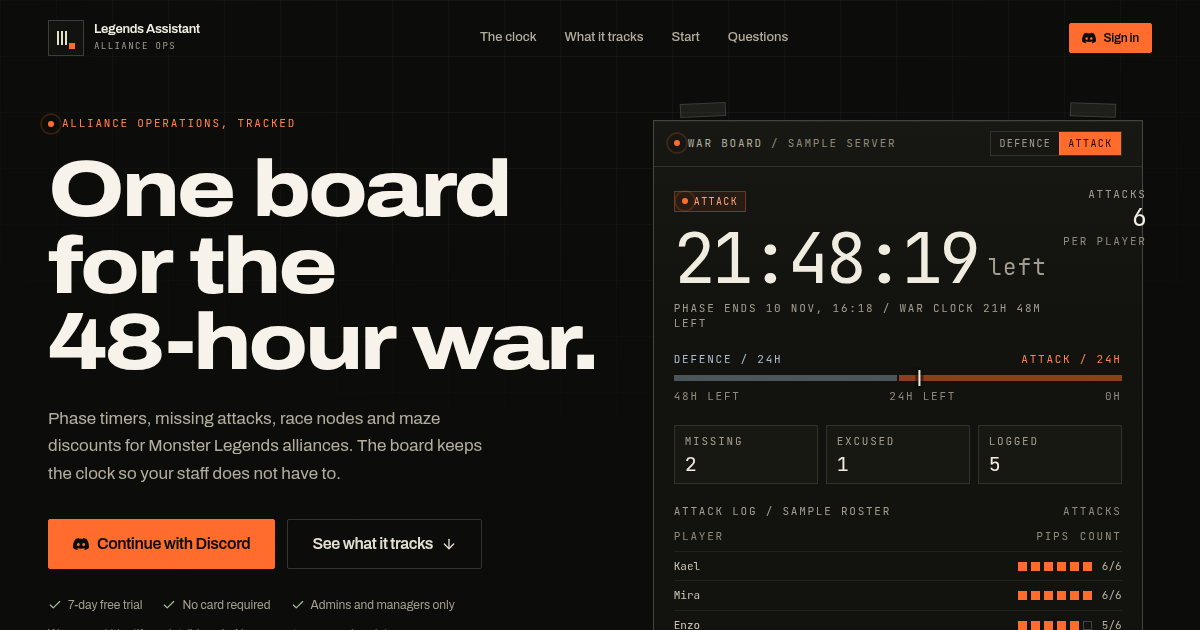
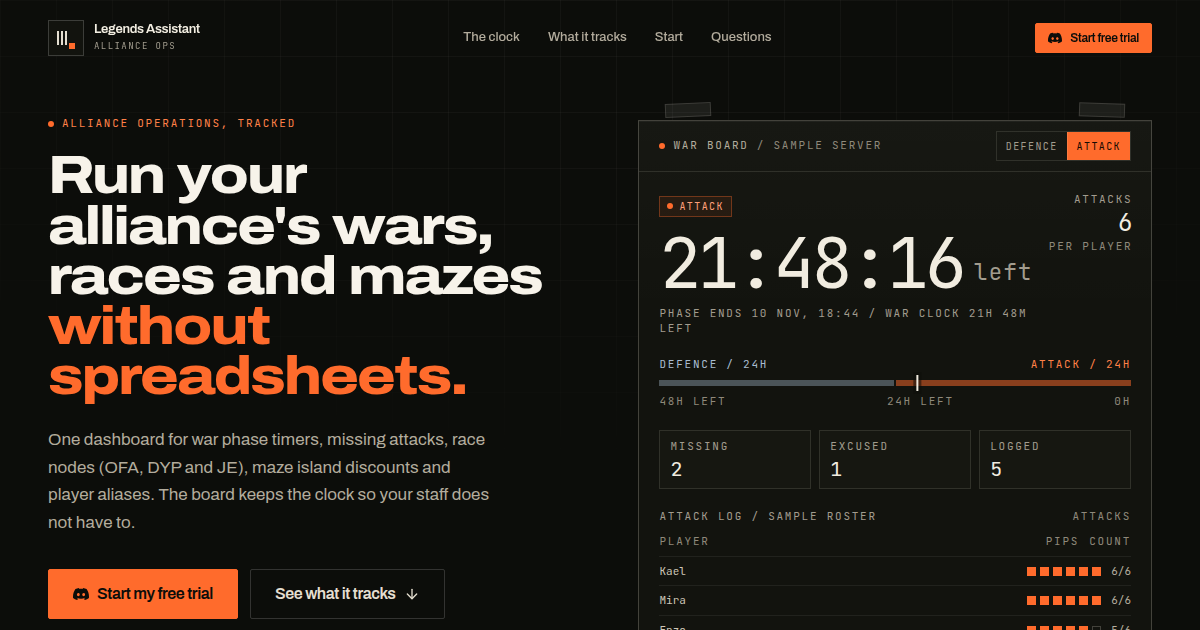
Add conversion psychology and widen the landing promise
The bot tracks wars, races, mazes and aliases, not only war, so the hero
returns to the alliance-wide caption that reads like a reason to sign up:
"Run your alliance's wars, races and mazes without spreadsheets."

Psychology pass from the UX/behavioural guide:
- Ownership microcopy: primary CTA is now "Start my free trial"; header
  and finale follow the same wording.
- Quantified effort: hero states the setup cost (about a minute, Discord
  sign-in, pick server) instead of a vague claim.
- Transparency timeline on Billing: Today (days left) -> Day 7 trial ends
  and board pauses, data kept -> pick a plan any time.
- Loss aversion: red notice when the trial has two days or less left;
  trial bar relabelled to days left.
- Price anchoring: yearly plan shows the struck 12x monthly baseline,
  per-month equivalent and a computed Save % badge (was a stale 30%).
- Risk reversal beside the plan actions: cancel any time, access to the
  end of the paid period, non-refundable per policy.
- Goal gradient: Overview shows a setup card that credits the bot already
  being in the server, so setup never reads 0% (50% with one channel set).
- Fixed inline legal links on Billing (underline + 24px target).
- Regenerated OG image; SEO title/description no longer war-only.

diff --git a/dashboard/app/dashboard/[guildId]/billing/page.tsx b/dashboard/app/dashboard/[guildId]/billing/page.tsx
@@ -6,7 +6,8 @@ import { ShieldCheck, ArrowRight, Sparkles, Check, Mail, Loader2, ShieldAlert, X
 import { useGuild } from '@/components/guild-shell'
 import { Card, CardBody, CardHeader, Badge, ProgressBar, Alert, PageHeader } from '@/components/ui'
 import { formatDate, toDate } from '@/lib/format'
-import { PRICING_PLANS, PLAN_FEATURES, formatPrice, detectCurrency, Currency } from '@/lib/pricing'
+import { PRICING_PLANS, PLAN_FEATURES, formatPrice, detectCurrency, perMonthPrice, yearlySavings, Currency } from '@/lib/pricing'
+import { TRIAL_DAYS } from '@/lib/constants'
 import { load as loadCashfree } from '@cashfreepayments/cashfree-js'
 import { initializePaddle, Paddle } from '@paddle/paddle-js'
 
@@ -73,6 +74,10 @@ export default function BillingPage() {
     daysLeft = Math.max(0, Math.ceil((trialEnd.getTime() - Date.now()) / 86_400_000))
     if (daysLeft <= 0) trialExpired = true
   }
+
+  // Price-anchor baseline: what the same year would cost on the monthly plan.
+  const proMonthlyPrice =
+    PRICING_PLANS.find((plan) => plan.id === 'pro_monthly')?.price[currency] ?? 0
 
   const supportEmail = 'warbot.support@gmail.com'
   const supportHref = `mailto:${supportEmail}?subject=Billing%20Enquiry%20for%20Server%20${guildId}`
@@ -160,13 +165,26 @@ export default function BillingPage() {
                     <h4 className="text-lg font-bold text-slate-50">{plan.name}</h4>
                     <p className="text-xs text-slate-400 mt-1">{plan.description}</p>
                   </div>
-                  {plan.badge && <Badge tone="purple">{plan.badge}</Badge>}
+                  {plan.badge && (
+                    <Badge tone="purple" className="whitespace-nowrap">
+                      {plan.id === 'elite_yearly' ? `Save ${yearlySavings(currency)}%` : plan.badge}
+                    </Badge>
+                  )}
                 </div>
                 <div className="mt-auto pt-6">
                   <p className="text-3xl font-extrabold text-slate-50">
                     {formatPrice(plan.price[currency], currency)}
                     <span className="text-sm font-normal text-slate-400"> / {plan.cadence}</span>
                   </p>
+                  {plan.cadence === 'year' ? (
+                    <p className="mt-1 text-xs text-slate-500">
+                      <s className="text-slate-600">{formatPrice(proMonthlyPrice * 12, currency)}</s>{' '}
+                      billed monthly · save {yearlySavings(currency)}% ·{' '}
+                      {formatPrice(perMonthPrice(plan, currency), currency)}/month
+                    </p>
+                  ) : (
+                    <p className="mt-1 text-xs text-slate-500">Billed monthly · cancel any time</p>
+                  )}
                   <button 
                     onClick={() => handlePayment(plan)}
                     disabled={loadingPlan === plan.id}
@@ -179,6 +197,11 @@ export default function BillingPage() {
             </Card>
           ))}
         </div>
+        <p className="mt-4 text-xs leading-relaxed text-slate-500">
+          Secure checkout via Paddle or Cashfree. Cancel any time; access continues to the end of
+          the paid period. Payments are non-refundable, as described in the{' '}
+          <a href="/legal#refund" className="inline-block py-1.5 text-accent-400 underline decoration-accent-500/40 underline-offset-4 hover:text-accent-300">refund policy</a>.
+        </p>
       </div>
     )
   }
@@ -222,11 +245,22 @@ export default function BillingPage() {
           </div>
           {!isPremium && (
             <div className="w-full sm:w-64">
-               <ProgressBar value={daysLeft} max={7} tone={daysLeft <= 2 ? 'red' : daysLeft <= 4 ? 'amber' : 'green'} label="Trial Progress" />
+               <ProgressBar value={daysLeft} max={TRIAL_DAYS} tone={daysLeft <= 2 ? 'red' : daysLeft <= 4 ? 'amber' : 'green'} label="Trial days left" />
             </div>
           )}
         </CardBody>
       </Card>
+
+      {isTrial && !trialExpired && daysLeft <= 2 ? (
+        <Alert
+          tone="red"
+          className="mb-6"
+          title={`Trial ends in ${daysLeft} ${daysLeft === 1 ? 'day' : 'days'}`}
+        >
+          When the trial ends the board pauses and channel pings stop. Your war, race and maze
+          history stays — pick a plan below to keep tracking without a gap.
+        </Alert>
+      ) : null}
 
       <div className="grid gap-8 lg:grid-cols-[1fr_300px]">
         <div className="space-y-6">
@@ -244,13 +278,26 @@ export default function BillingPage() {
                       <h4 className="text-lg font-bold text-slate-50">{plan.name}</h4>
                       <p className="text-xs text-slate-400 mt-1">{plan.description}</p>
                     </div>
-                    {plan.badge && <Badge tone="purple">{plan.badge}</Badge>}
+                    {plan.badge && (
+                    <Badge tone="purple" className="whitespace-nowrap">
+                      {plan.id === 'elite_yearly' ? `Save ${yearlySavings(currency)}%` : plan.badge}
+                    </Badge>
+                  )}
                   </div>
                   <div className="mt-auto pt-6">
                     <p className="text-3xl font-extrabold text-slate-50">
                       {formatPrice(plan.price[currency], currency)}
                       <span className="text-sm font-normal text-slate-400"> / {plan.cadence}</span>
                     </p>
+                    {plan.cadence === 'year' ? (
+                      <p className="mt-1 text-xs text-slate-500">
+                        <s className="text-slate-600">{formatPrice(proMonthlyPrice * 12, currency)}</s>{' '}
+                        billed monthly · save {yearlySavings(currency)}% ·{' '}
+                        {formatPrice(perMonthPrice(plan, currency), currency)}/month
+                      </p>
+                    ) : (
+                      <p className="mt-1 text-xs text-slate-500">Billed monthly · cancel any time</p>
+                    )}
                     <button 
                       onClick={() => handlePayment(plan)}
                       disabled={loadingPlan === plan.id}
@@ -267,9 +314,43 @@ export default function BillingPage() {
               </Card>
             ))}
           </div>
+          <p className="mt-4 text-xs leading-relaxed text-slate-500">
+            Secure checkout via Paddle or Cashfree. Cancel any time; access continues to the end
+            of the paid period. Payments are non-refundable, as described in the{' '}
+            <a href="/legal#refund" className="inline-block py-1.5 text-accent-400 underline decoration-accent-500/40 underline-offset-4 hover:text-accent-300">refund policy</a>.
+          </p>
         </div>
 
         <div className="space-y-4">
+          {!isPremium ? (
+            <Card>
+              <CardHeader title="What happens next" icon={<Clock className="w-5 h-5" />} />
+              <CardBody>
+                <ol className="space-y-4 text-sm leading-relaxed text-slate-300">
+                  <li>
+                    <span className="mono-label block text-accent-400">Today</span>
+                    <span className="mt-0.5 block">
+                      {daysLeft} of {TRIAL_DAYS} trial days left. All six tools unlocked, no card
+                      on file.
+                    </span>
+                  </li>
+                  <li>
+                    <span className="mono-label block text-steel-400">Day {TRIAL_DAYS}</span>
+                    <span className="mt-0.5 block">
+                      The trial ends and the board pauses. Nothing is deleted: war, race and maze
+                      history stays.
+                    </span>
+                  </li>
+                  <li>
+                    <span className="mono-label block text-slate-500">Any time</span>
+                    <span className="mt-0.5 block">
+                      Pick a plan and the board keeps running without a gap.
+                    </span>
+                  </li>
+                </ol>
+              </CardBody>
+            </Card>
+          ) : null}
           <Card>
             <CardHeader title="What's included" icon={<ShieldCheck className="w-5 h-5" />} />
             <CardBody>
@@ -284,7 +365,7 @@ export default function BillingPage() {
             </CardBody>
           </Card>
           <p className="text-xs text-slate-500 px-2 text-center">
-            By selecting a plan, you agree to our <a href="/legal" target="_blank" className="text-accent-400 hover:underline">Terms of Service</a>. All payments are strictly non-refundable.
+            By selecting a plan, you agree to our <a href="/legal" target="_blank" className="inline-block py-1.5 text-accent-400 underline decoration-accent-500/40 underline-offset-4 hover:text-accent-300">Terms of Service</a>. All payments are strictly non-refundable.
           </p>
         </div>
       </div>

diff --git a/dashboard/app/dashboard/[guildId]/page.tsx b/dashboard/app/dashboard/[guildId]/page.tsx
@@ -29,6 +29,7 @@ import {
   ProgressBar,
   Spinner,
   Stat,
+  buttonClass,
 } from '@/components/ui'
 import { getGuildSummary, type GuildSummary } from '@/lib/data'
 import { createClient } from '@/lib/supabase/client'
@@ -134,6 +135,17 @@ export default function OverviewPage() {
     [moments],
   )
 
+  // Goal-gradient head start: the bot is already in this server (otherwise the dashboard could
+  // not load it), so setup is never a 0% state. Only the channel picks are left.
+  const setupSteps = [
+    { label: 'War channel', done: Boolean(guild.war_channel_id), href: `/dashboard/${guildId}/war` },
+    { label: 'Race channel', done: Boolean(guild.race_channel_id), href: `/dashboard/${guildId}/race` },
+    { label: 'Maze channel', done: Boolean(guild.maze_channel_id), href: `/dashboard/${guildId}/maze` },
+  ]
+  const setupDone = setupSteps.filter((step) => step.done).length
+  const setupPct = Math.round(((setupDone + 1) / (setupSteps.length + 1)) * 100)
+  const nextSetupSteps = setupSteps.filter((step) => !step.done).slice(0, 2)
+
   return (
     <div>
       <PageHeader
@@ -147,6 +159,32 @@ export default function OverviewPage() {
           </Button>
         }
       />
+
+      {setupDone < setupSteps.length ? (
+        <Card className="mb-6">
+          <CardBody className="flex flex-col gap-4 sm:flex-row sm:items-center sm:justify-between">
+            <div>
+              <p className="mono-label text-accent-400">
+                Setup / {setupDone} of {setupSteps.length} channels
+              </p>
+              <p className="mt-1.5 text-sm font-semibold text-slate-100">
+                {setupPct}% set up. The bot is already in the server.
+              </p>
+              <p className="mt-1 text-xs leading-relaxed text-slate-400">
+                Point each tool at a channel so it tracks and pings automatically.
+              </p>
+            </div>
+            <div className="flex flex-wrap items-center gap-2">
+              {nextSetupSteps.map((step) => (
+                <Link key={step.href} href={step.href} className={buttonClass('secondary', 'sm')}>
+                  {step.label}
+                  <ArrowRight className="h-3.5 w-3.5" />
+                </Link>
+              ))}
+            </div>
+          </CardBody>
+        </Card>
+      ) : null}
 
       {error ? (
         <Alert tone="red" className="mb-6" title="Could not refresh the snapshot">

diff --git a/dashboard/components/landing.tsx b/dashboard/components/landing.tsx
@@ -135,7 +135,7 @@ export default function Landing() {
             className={buttonClass('primary', 'sm')}
           >
             <DiscordIcon className="h-3.5 w-3.5" />
-            {loading ? 'Redirecting…' : 'Sign in'}
+            {loading ? 'Redirecting…' : 'Start free trial'}
           </button>
         </div>
         <button
@@ -204,11 +204,9 @@ export default function Landing() {
                 <span className="live-dot" aria-hidden />
                 {hero.stamp}
               </p>
-              <h1 className="display mt-5 text-[clamp(2.7rem,6.7vw,5.5rem)] text-slate-50">
-                {hero.title.split('48-hour')[0]}
-                <span className="whitespace-nowrap">
-                  48-hour{hero.title.split('48-hour')[1]}
-                </span>
+              <h1 className="display mt-5 text-[clamp(2.2rem,4.4vw,3.6rem)] text-slate-50">
+                {hero.title.replace(hero.titleAccent, '')}
+                <span className="block text-accent-500">{hero.titleAccent}</span>
               </h1>
               <p className="mt-6 max-w-[46ch] text-[17px] leading-relaxed text-slate-400">
                 {hero.lede}
@@ -228,7 +226,8 @@ export default function Landing() {
                   {error}
                 </Alert>
               ) : null}
-              <ul className="mt-7 flex flex-wrap gap-x-5 gap-y-2 text-xs text-slate-500">
+              <p className="mt-4 text-[13px] leading-relaxed text-slate-500">{hero.effortNote}</p>
+              <ul className="mt-5 flex flex-wrap gap-x-5 gap-y-2 text-xs text-slate-500">
                 {hero.highlights.map((item) => (
                   <li key={item} className="inline-flex items-center gap-1.5">
                     <Check className="h-3.5 w-3.5 text-sage-400" aria-hidden />
@@ -486,7 +485,7 @@ export default function Landing() {
                 Assistant
               </p>
               <p className="mt-4 max-w-[44ch] text-sm leading-relaxed text-slate-500">
-                A war board for Monster Legends alliance staff. Built to replace the pinned
+                The alliance board for Monster Legends staff. Built to replace the pinned
                 spreadsheet, not the conversation.
               </p>
             </div>

diff --git a/dashboard/lib/marketing.ts b/dashboard/lib/marketing.ts
@@ -11,17 +11,21 @@ export const site = {
   name: 'Legends Assistant',
   url: 'https://drlohithealth.com',
   description:
-    'Track the 48-hour alliance war, missing attacks, race nodes and maze discounts for your Monster Legends alliance, from one board.',
+    'Track alliance wars, race nodes (OFA, DYP and JE), maze island discounts and player aliases for your Monster Legends alliance, from one dashboard.',
   supportEmail: 'warbot.support@gmail.com',
 } as const
 
 export const hero = {
   stamp: 'Alliance operations, tracked',
-  title: 'One board for the 48-hour war.',
+  title: "Run your alliance's wars, races and mazes without spreadsheets.",
+  // Rendered in the accent colour inside the headline.
+  titleAccent: 'without spreadsheets.',
   lede:
-    'Phase timers, missing attacks, race nodes and maze discounts for Monster Legends alliances. The board keeps the clock so your staff does not have to.',
-  primaryCta: 'Continue with Discord',
+    'One dashboard for war phase timers, missing attacks, race nodes (OFA, DYP and JE), maze island discounts and player aliases. The board keeps the clock so your staff does not have to.',
+  primaryCta: 'Start my free trial',
   secondaryCta: 'See what it tracks',
+  // Quantified effort: remove the "how long will this take?" objection before it forms.
+  effortNote: 'Live in about a minute: sign in with Discord, pick your server, the board fills.',
   highlights: ['7-day free trial', 'No card required', 'Admins and managers only'],
   scopeNote:
     'We request identify and guilds only. No messages or member data are read by the dashboard.',
@@ -164,8 +168,8 @@ export const faq = {
 export const finale = {
   title: 'Put it on the board.',
   body:
-    'Sign in with Discord, start the trial and run the next war from one place.',
-  cta: 'Continue with Discord',
+    'Sign in with Discord, start the trial and run the next war, race and maze from one place.',
+  cta: 'Start my free trial',
 } as const
 
 export const footer = {

diff --git a/dashboard/app/layout.tsx b/dashboard/app/layout.tsx
@@ -6,7 +6,7 @@ import './globals.css'
 export const metadata: Metadata = {
   metadataBase: new URL(site.url),
   title: {
-    default: 'Legends Assistant | 48-hour war, race and maze tracking',
+    default: 'Legends Assistant | War, race and maze tracking for Monster Legends alliances',
     template: '%s | Legends Assistant',
   },
   description: site.description,
@@ -14,14 +14,14 @@ export const metadata: Metadata = {
   openGraph: {
     type: 'website',
     siteName: site.name,
-    title: 'Legends Assistant | One board for the 48-hour war',
+    title: 'Legends Assistant | Wars, races and mazes without spreadsheets',
     description: site.description,
     url: '/',
-    images: [{ url: '/og.png', width: 1200, height: 630, alt: 'Legends Assistant war board' }],
+    images: [{ url: '/og.png', width: 1200, height: 630, alt: 'Legends Assistant alliance board' }],
   },
   twitter: {
     card: 'summary_large_image',
-    title: 'Legends Assistant | One board for the 48-hour war',
+    title: 'Legends Assistant | Wars, races and mazes without spreadsheets',
     description: site.description,
     images: ['/og.png'],
   },

diff --git a/dashboard/components/war-board.tsx b/dashboard/components/war-board.tsx
@@ -234,7 +234,7 @@ export function WarBoard() {
         </div>
       </div>
       <figcaption className="mt-3 flex flex-wrap items-center justify-between gap-2">
-        <span className="mono-label text-slate-500">Fig. 01 / live sample, not a screenshot</span>
+        <span className="mono-label text-slate-500">Fig. 01 / live sample of one of six tools</span>
         <span className="mono-label text-slate-600">Sample players and counts</span>
       </figcaption>
     </figure>
